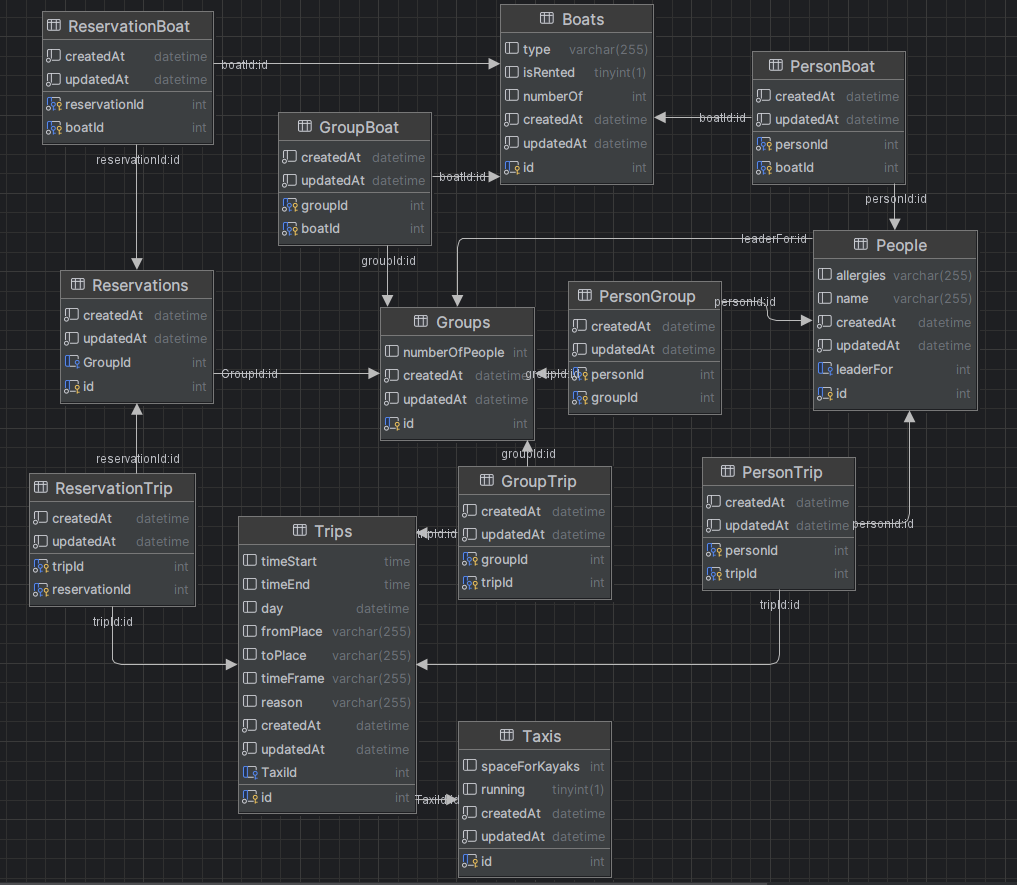
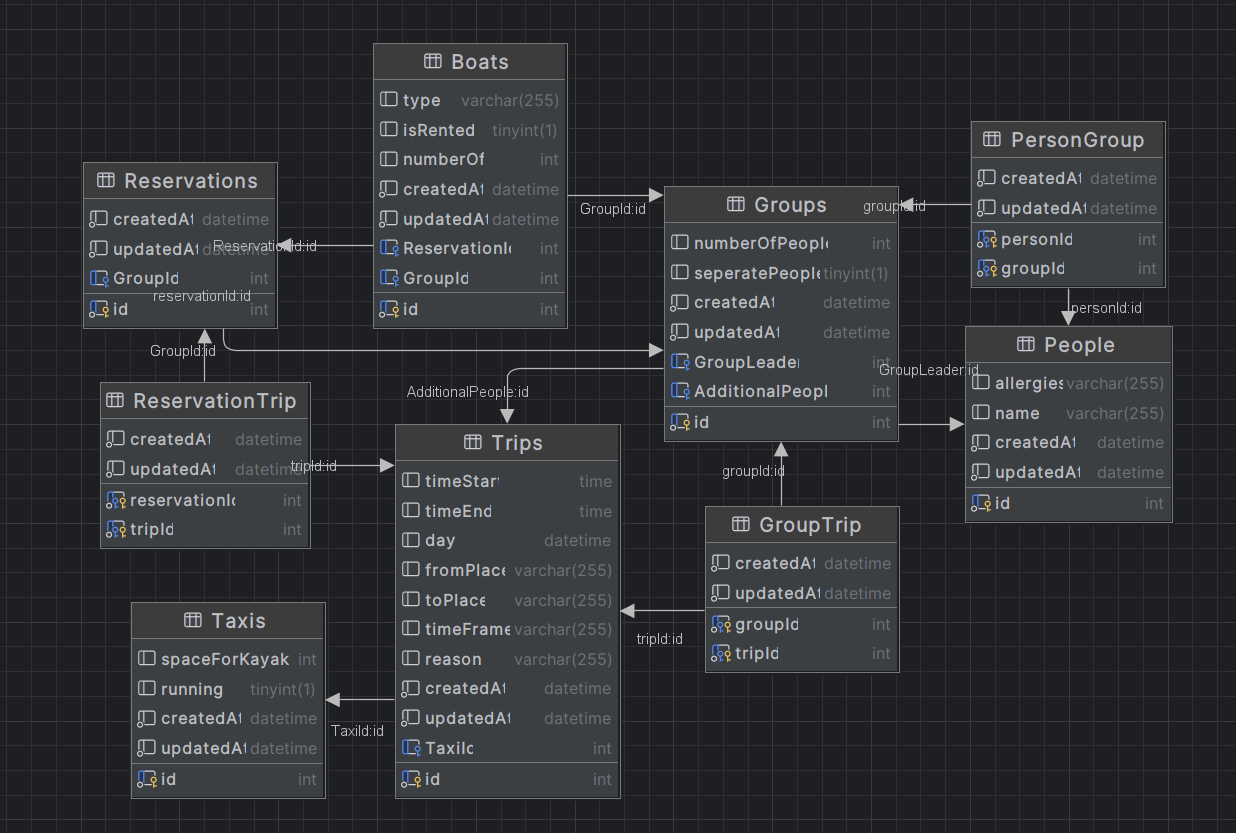
updated code and fixed errors when querineg all of types, and make boat relations many to one instead of many to many

diff --git a/app/src/models/person.js b/app/src/models/person.js
@@ -9,12 +9,7 @@ module.exports = (sequelize, DataTypes) => {
         through: 'PersonGroup',
         foreignKey: 'personId',
         otherKey: 'groupId'
-      });                                                                                
-      Person.belongsToMany(models.Trip, {
-        through: 'PersonTrip',
-        foreignKey: 'personId',
-        otherKey: 'tripId'
-      });                                                                                 // the trips that the person is going on
+      });                                                                              // the trips that the person is going on
       Person.hasMany(models.Group, { foreignKey: 'GroupLeader', as: 'leaderFor' });
     };
   

diff --git a/app/src/models/trip.js b/app/src/models/trip.js
@@ -16,16 +16,12 @@ module.exports = (sequelize, DataTypes) => {
       foreignKey: 'tripId',
       otherKey: 'reservationId'
     });                                 // the boats that will be carried in this trip
-    Trip.belongsToMany(models.Person, {
-      through: 'PersonTrip',
-      foreignKey: 'tripId',
-      otherKey: 'personId'
-    });                                 // the people on the trip that have names / data eg reserver, or allergies
     Trip.belongsToMany(models.Group, {
       through: 'GroupTrip',
       foreignKey: 'tripId',
       otherKey: 'groupId'
     });
+    Trip.hasOne(models.Group, { foreignKey: 'AdditionalPeople', as: 'People' });
   };
 
   return Trip;

diff --git a/app/src/services/person.service.js b/app/src/services/person.service.js
@@ -13,10 +13,6 @@ const getAll = async () => {
         through: { attributes: [] } // This hides the join table data (PersonSchedule)
       },
       {
-        model: Trip,
-        through: { attributes: [] } // This hides the join table data (PersonTrip)
-      },
-      {
         model: Group,
         as: "leaderFor",
         include: [
@@ -35,10 +31,6 @@ const getById = async (id) => {
       {
         model: Group,
         through: { attributes: [] } // This hides the join table data (PersonSchedule)
-      },
-      {
-        model: Trip,
-        through: { attributes: [] } // This hides the join table data (PersonTrip)
       },
       {
         model: Group,

diff --git a/app/src/models/group.js b/app/src/models/group.js
@@ -17,6 +17,7 @@ module.exports = (sequelize, DataTypes) => {
       otherKey: 'tripId'
     });                                                                     // the trip(s) that will move all the people and boats to the wanted place
     Group.hasMany(models.Reservation);                                     // the reservations the group is part of
+    Group.belongsTo(models.Trip, { foreignKey: 'AdditionalPeople', as: 'tripForPeople' });
     Group.belongsTo(models.Person, {as: 'leader', foreignKey: 'GroupLeader' });    // the group leader
   };
 

diff --git a/app/src/services/trip.service.js b/app/src/services/trip.service.js
@@ -1,7 +1,6 @@
 const db = require('../models');
 const Boat = db.Boat;
 const Group = db.Group;
-const Person = db.Person;
 const Trip = db.Trip;
 const Taxi = db.Taxi;
 const Reservation = db.Reservation;
@@ -29,7 +28,16 @@ const getAll = async () => {
             model: Boat,
           }
         ]
-      }
+      },
+      {
+        model: Group,
+        as: 'People',
+        include: [
+          {
+            model: Boat,
+          }
+        ]
+      },
     ]
   });
 };

diff --git a/app/src/services/group.service.js b/app/src/services/group.service.js
@@ -14,7 +14,6 @@ const getAll = async () => {
       },
       {
         model: Boat,
-        through: { attributes: [] }
       },
       {
         model: Reservation,

diff --git a/app/src/services/reservation.service.js b/app/src/services/reservation.service.js
@@ -20,7 +20,6 @@ const getAll = async () => {
       },
       {
         model: Boat,
-        through: { attributes: [] }
       },
       {
         model: Trip,
